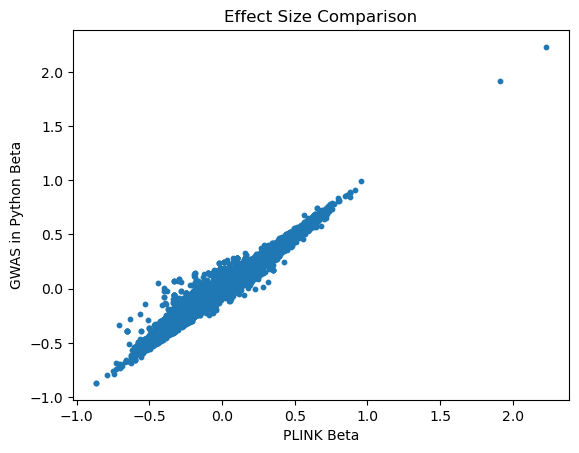
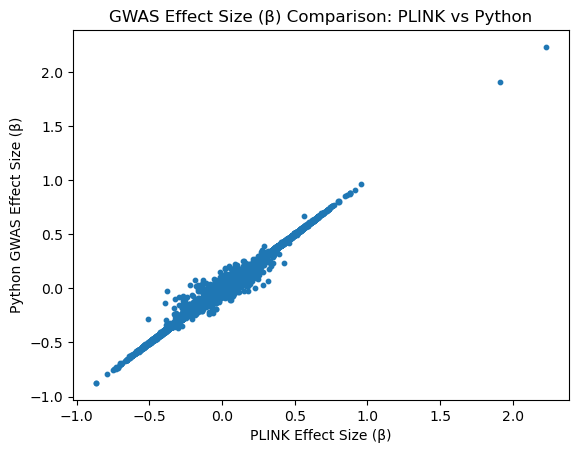
README update

diff --git a/README.md b/README.md
@@ -1,8 +1,14 @@
 # CSE-284-GWAS
-This is a project for CSE 284 Personal Genomics for Bioinformaticians. It implements a Genome-Wide Association Study (GWAS) pipeline from scratch in Python, performing single-variant association testing where each SNP is independently tested for association with a quantitative phenotype (e.g. height, BMI, weight) using linear regression. The pipeline covers the full workflow from raw genotype data (VCF format) through computing principal components via SVD and using them as covariates, with results visualized via QQ and Manhattan plots and validated against PLINK using 1000 Genomes data and simulated phenotypes.
+This CSE 284 project reimplements PLINK's `--pca`, `--linear`, and `--clump` commands from scratch in Python, reproducing a complete GWAS pipeline. At a high-level, our implementation of each command does the following:
+
+1. `--pca` computes principal principal components by standardizing the genotype matrix, constructing a genetic relationship matrix (GRM), and performing eigendecomposition to obtain components that capture population structure such as ancestry.
+
+2. `--linear` (GWAS) computes P-values and effect sizes by residualizing the phenotype and genotype data on covariates, then performing per-SNP linear regression.
+
+3. `--clump` identifies independent lead SNPs by filtering SNPs by P-value threshold, selecting the most significant SNP as the lead, and grouping nearby SNPs within a defined genomic window and LD threshold.
 
 ## Requirements
-This project requires **Python 3.8 or higher**.
+This was tested on **Python 3.14.3**.
 
 ### Dependencies
 The following Python libraries are required:
@@ -22,33 +28,117 @@ Install all dependencies using:
 pip install -r requirements.txt
 ```
 
-
 ## Usage
-1. Place the `ps3_gwas_covar.assoc.linear` and `ps3_gwas.assoc.linear` files from `public/ps3` on DataHub into the `plink_results/` directory. These files were not included in the repository due to GitHub file size limitations.
+Below is a description of each of our implemented command's usage, available flags, outputs, and an example.
 
-2. Run the notebooks in the following order:
+### PCA (`pca.py`)
+```bash
+python pca.py --vcf <vcf_file> --out <output_prefix> [options]
+```
 
-- `src/PCA.ipynb` – performs PCA to estimate population structure  
-- `src/gwas.ipynb` – runs GWAS association tests  
-- `src/results.ipynb` – generates result summaries and plots
+| Argument | Required | Default | Description |
+|---|---|---|---|
+| `--vcf` | Yes | — | Path to input VCF file |
+| `--out` | Yes | — | Output file prefix |
+| `--num_pcs` | No | all | Number of principal components to compute |
 
-Running these notebooks sequentially performs the full GWAS analysis, generates visualizations (e.g., Manhattan and QQ plots), and compares the results to those produced by PLINK.
+Outputs `<out>.eigenvec` and `<out>.eigenval`.
 
-## Source File Descriptions
-### `src/PCA.ipynb`
-Computes the top 3 principal components (PCs) from the VCF genotype data to capture population structure. Reads all SNPs into a genotype matrix, imputes missing values with per-SNP means, standardizes, and runs truncated SVD. Signs are flipped for consistency, and the resulting eigenvectors are written to `python_results/eigenvec.txt`. A correlation check against PLINK's PCA output validates the result (~0.9999 correlation).
+**Example** (run from root of project):
+```bash
+python scripts/PCA.py \
+    --num_pcs 3 \
+    --vcf data/ps3_gwas.vcf.gz \
+    --out python_results/pca
+```
 
-### `src/gwas.ipynb`
-Runs two rounds of GWAS using simple linear regression:
-1. **Without covariates** – regresses each SNP's dosage against the phenotype directly (OLS), writing results to `python_results/gwas_results.tsv`.
-2. **With PC covariates** – projects out the effect of the top 3 PCs from both the phenotype and genotype before regression (partial regression), writing results to `python_results/gwas_results_covar.tsv`.
 
-Both runs filter SNPs with MAF < 1% and report effect size (beta), p-value, and sample size per SNP.
+### GWAS (`gwas.py`)
+```bash
+python gwas.py --vcf <vcf_file> --phen <phenotype_file> --out <output_prefix> [options]
+```
 
-### `src/results.ipynb`
-Compares the Python GWAS results to PLINK's output. For both the no-covariate and covariate runs, it generates side-by-side Manhattan and QQ plots, scatter plots of effect sizes and p-values, and computes beta correlations and top-SNP overlap between Python and PLINK. The covariate-adjusted run achieves 10/10 top-SNP overlap and ~0.991 beta correlation with PLINK.
+| Argument | Required | Default | Description |
+|---|---|---|---|
+| `--vcf` | Yes | — | Path to input VCF file |
+| `--phen` | Yes | — | Path to phenotype file (FID, IID, PHEN) |
+| `--out` | Yes | — | Output file prefix |
+| `--covar` | No | `false` | Include PC covariates in regression (flag) |
+| `--pcs` | Yes if --covar flag| — | Path to eigenvec/PC file (*required if `--covar`) |
+| `--maf` | No | `0.01` | Minor allele frequency threshold |
 
-# File Structure
+Output is written to `<out>.assoc.linear`.
+
+**Example** (run from root of project):
+```bash
+python scripts/GWAS.py \
+    --vcf data/ps3_gwas.vcf.gz \
+    --phen data/ps3_gwas.phen \
+    --pcs plink_results/ps3_gwas.eigenvec \
+    --covar \
+    --maf 0.05 \
+    --out python_results/gwas_covar
+```
+
+### Clump (`clumping.py`)
+
+```bash
+python clump.py --clump <gwas_file> --vcf <vcf_file> --out <output_prefix> [options]
+```
+
+| Argument | Required | Default | Description |
+|---|---|---|---|
+| `--clump` | Yes | — | Path to GWAS summary statistics file |
+| `--vcf` | Yes | — | Path to VCF file used in the GWAS |
+| `--out` | Yes | — | Output file prefix |
+| `--p1` | No | `1e-4` | P-value threshold for index (lead) SNPs |
+| `--p2` | No | `0.01` | P-value threshold for clump member SNPs |
+| `--kb-window` | No | `250` | Window size in kilobases |
+| `--r2` | No | `0.5` | LD r² threshold |
+
+Output is written to `<out>.clumped`.
+
+**Example** (run from root of project):
+```bash
+python scripts/clumping.py \
+    --clump plink_results/ps3_gwas_covar.assoc.linear \
+    --vcf data/ps3_gwas.vcf.gz \
+    --p1 5e-8 \
+    --out python_results/gwas_covar
+```
+
+## Comparison Against PLINK
+To evaluate our implementation, we ran equivalent commands in both our scripts and PLINK and compared the results in `results/results.ipynb`. The exact commands we ran are listed in `results/commands.txt` for transparency.
+
+To run the notebook yourself, you will need to copy `ps3_gwas_covar.assoc.linear` and `ps3_gwas.assoc.linear` from `public/ps3` on DataHub into the `plink_results/` directory. These files are excluded from the repository due to GitHub file size limits.
+
+### PLINK PCA vs. Our PCA
+The top 3 PCs show strong correlation with PLINK's output (PC1: ~1.0, PC2: ~-0.977, PC3: ~0.970). The high magnitude correlations confirm our method produces equivalent results. The negative signs are expected, as eigenvector sign is arbitrary.
+
+![](graph_results/pca.png)
+
+### PLINK GWAS vs. Our GWAS
+Here we compare GWAS results with PC covariates included. Results without covariates were consistent as well but are omitted for brevity (see `results/results.ipynb`).
+
+The Manhattan and QQ plots match PLINK's output closely:
+
+![](graph_results/plink_gwas.png)
+![](graph_results/python_gwas.png)
+
+Effect sizes show a correlation of ~1 with PLINK's output:
+
+![](graph_results/effect_size.png)
+
+P-values show a correlation of ~0.999:
+
+![](graph_results/pval.png)
+
+### PLINK Clumping vs. Our Clumping
+Comparing clumping results, both methods identify 3 lead SNPs with 2 overlapping. Upon further inspection, the one differing lead SNP in PLINK's output falls within the clump of our corresponding lead SNP, indicating the two methods identify the same underlying signal.
+
+![](graph_results/clump.png)
+
+## File Structure
 
 ```
 CSE-284-GWAS/
@@ -56,61 +146,38 @@ CSE-284-GWAS/
 ├── requirements.txt
 ├── data/
 │   ├── ps3_gwas.vcf.gz               # Input genotype data (VCF format)
+│   ├── ps3_gwas_deduped.vcf.gz       # Deduplicated VCF (used for clumping)
 │   └── ps3_gwas.phen                 # Simulated phenotype file
-├── src/
-│   ├── PCA.ipynb                     # PCA via SVD to compute population structure
-│   ├── gwas.ipynb                    # GWAS association testing (linear regression)
-│   └── results.ipynb                 # Visualization (Manhattan/QQ plots) and PLINK comparison
+├── scripts/
+│   ├── PCA.py                        # PCA implementation
+│   ├── gwas.py                       # GWAS association testing (linear regression)
+│   └── clumping.py                   # LD clumping implementation
+├── notebooks/
+│   ├── PCA.ipynb                     # PCA development notebook
+│   ├── gwas.ipynb                    # GWAS development notebook
+│   └── clumping.ipynb                # Clumping development notebook
+├── results/
+│   ├── results.ipynb                 # Comparison and visualization notebook
+│   └── commands.txt                  # Exact PLINK commands used for comparison
+├── graph_results/
+│   ├── pca.png                       # PCA correlation plot (PLINK vs. ours)
+│   ├── plink_gwas.png                # PLINK Manhattan/QQ plots
+│   ├── python_gwas.png               # Our Manhattan/QQ plots
+│   ├── effect_size.png               # Effect size correlation plot
+│   ├── pval.png                      # P-value correlation plot
+│   └── clump.png                     # Clumping comparison plot
 ├── python_results/
-│   ├── eigenvec.txt                  # Principal components from custom PCA
-│   ├── gwas_results.tsv              # GWAS results (no covariates)
-│   └── gwas_results_covar.tsv        # GWAS results (with PC covariates)
+│   ├── pca.eigenval                  # Our PCA eigenvalues
+│   ├── pca.eigenvec                  # Our PCA eigenvectors
+│   ├── gwas.assoc.linear             # Our GWAS results (no covariates)
+│   ├── gwas_covar.assoc.linear       # Our GWAS results (with PC covariates)
+│   ├── gwas.clumped                  # Our clumping results (no covariates)
+│   └── gwas_covar.clumped            # Our clumping results (with PC covariates)
 └── plink_results/
     ├── ps3_gwas.eigenval             # PLINK PCA eigenvalues
     ├── ps3_gwas.eigenvec             # PLINK PCA eigenvectors
     ├── ps3_gwas.assoc.linear         # PLINK GWAS results (no covariates)
-    └── ps3_gwas_covar.assoc.linear   # PLINK GWAS results (with covariates)
+    ├── ps3_gwas_covar.assoc.linear   # PLINK GWAS results (with covariates)
+    ├── ps3_gwas_clump.clumped        # PLINK clumping results (no covariates)
+    └── ps3_gwas_covar_clump.clumped  # PLINK clumping results (with covariates)
 ```
-
-
-## Current Results
-
-### Manhattan and QQ Plots
-
-Below are the Manhattan and QQ plots generated by **PLINK’s GWAS pipeline** and **our implementation**, both including PC covariates.
-
-**PLINK Results**:
-
-![PLINK GWAS Manhattan and QQ Plot](graph_results/plink_gwas.png)
-
-**Our Python Implementation**:
-
-![Python GWAS Manhattan and QQ Plot](graph_results/python_gwas.png)
-
-The two sets of plots appear nearly identical, providing strong evidence that our implementation correctly reproduces the results of the PLINK pipeline.
-
----
-
-### Effect Size and P-Value Comparison
-
-We also compared the **effect sizes** and **p-values** for SNPs between the two methods.
-
-**Effect Size Comparison**:
-
-![Effect Size](graph_results/effect_size.png)
-
-**P-Value Comparison**:
-
-![P-Value](graph_results/p_val.png)
-
-Both plots closely follow the diagonal line, indicating strong agreement between our pipeline and the results produced by PLINK.
-
-## Steps for Next Week
-
-**Clumping** — After GWAS, many nearby SNPs appear significant simply because they are in linkage disequilibrium (LD) with each other, not because they are independently associated. Clumping reduces these hits to a representative set of index SNPs by: (1) ranking all SNPs by p-value, (2) selecting the top SNP as an index, (3) removing all SNPs within a window (e.g., 250 kb) that are highly correlated with it (r² > 0.5), and (4) repeating. This yields a pruned set of independent association signals. We can implement this from scratch using the genotype matrix to compute LD (r²) between SNP pairs.
-
-**Least-Squares from scratch** — Right now the regression is handled by library functions. The next step is to implement it by hand, directly solving for the effect sizes, computing standard errors, and deriving p-values without leaning on scipy or sklearn. This makes the math more transparent and gives us more flexibility in how we handle covariates.
-
-**Make the pipeline work with any dataset** — Everything is currently hardcoded for one specific dataset. We want to convert the notebooks into scripts where you can just pass in a VCF and phenotype file and have the whole pipeline run, making it easy to apply to new data without touching the code.
-
-**Test on bigger datasets** — The current dataset is relatively small. Running on larger, real-world data will be a good stress test for performance and correctness, and will be much easier once the pipeline is scriptable.
